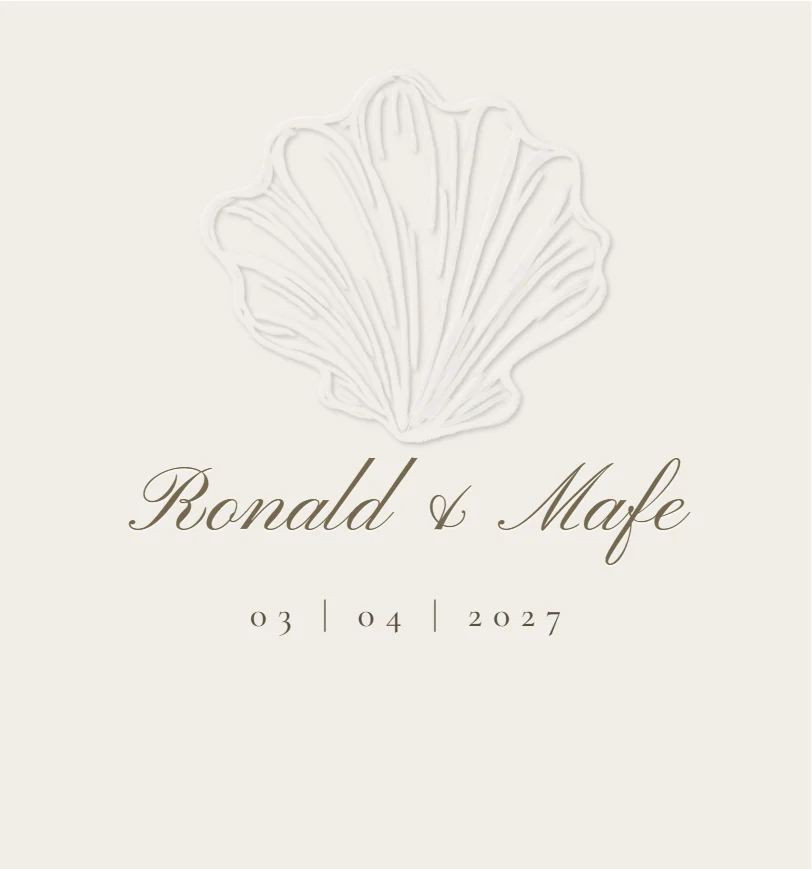
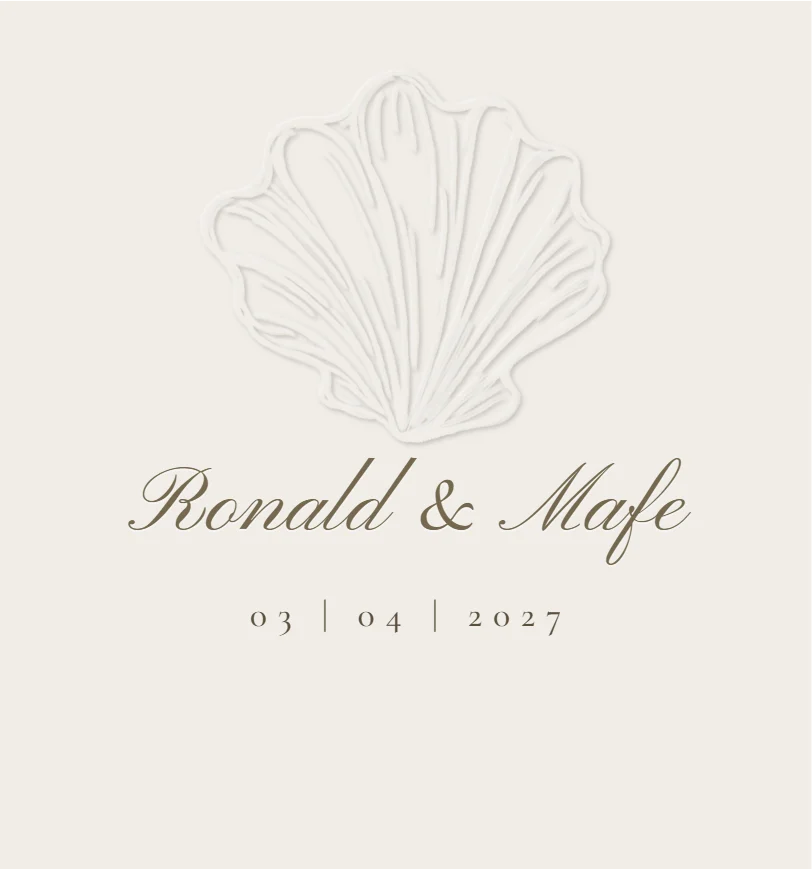
mejoras2

diff --git a/v2/index.html b/v2/index.html
@@ -18,7 +18,7 @@
 <meta name="theme-color" content="#F3ECE6">
 <link rel="preconnect" href="https://fonts.googleapis.com">
 <link rel="preconnect" href="https://fonts.gstatic.com" crossorigin="">
-<link href="https://fonts.googleapis.com/css2?family=Pinyon+Script&amp;family=Cormorant+Garamond:ital,wght@0,400;0,500;0,600;1,400&amp;family=Jost:wght@300;400;500&amp;display=swap" rel="stylesheet">
+<link href="https://fonts.googleapis.com/css2?family=Pinyon+Script&amp;family=Cormorant+Garamond:ital,wght@0,400;0,500;0,600;1,400&amp;family=Tangerine:wght@700&amp;family=Jost:wght@300;400;500&amp;display=swap" rel="stylesheet">
 <link rel="preload" as="image" href="../assets/sello.png">
 <link rel="preload" as="image" href="../assets/sobre-bolsillo.webp">
 <link rel="preload" as="image" href="../assets/sobre-solapa.webp">
@@ -33,6 +33,8 @@ a:hover{color:#5E5340}
 img{display:block;max-width:100%}
 @media (prefers-reduced-motion:reduce){html{scroll-behavior:auto}*{transition-property:opacity!important}.s-solapa-fuera,.s-solapa-dentro{transition:none!important}}
 
+/* «&» de los nombres: Tangerine en negrita, con el grosor de los trazos de la letra manuscrita */
+.amp{font-family:'Tangerine',cursive;font-weight:700;font-size:1.15em;line-height:0;padding:0 .08em}
 /* ---------- Sobre cuadrado (opción 8 de /sobres): piezas ya renderizadas en assets/sobre-*.webp ---------- */
 .sobre{--w:min(80vw,46vh,400px);position:relative;width:var(--w);aspect-ratio:1;will-change:transform}
 .sobre > *{position:absolute}
@@ -53,7 +55,7 @@ img{display:block;max-width:100%}
 <sc-if value="{{ showEnvelope }}" hint-placeholder-val="{{ true }}">
 <div data-screen-label="01 Sobre" onClick="{{ openEnvelope }}" role="button" tabindex="0" aria-label="{{ envLabel }}" style="position:fixed;inset:0;z-index:100;overflow:hidden;touch-action:none;cursor:pointer;background:#F3ECE6;display:flex;flex-direction:column;align-items:center;justify-content:center;gap:clamp(36px,7vh,64px);transition:opacity 1100ms ease-in-out 350ms;opacity:{{ envOpacity }};pointer-events:{{ envPointer }};">
   <div style="position:absolute;inset:0;background-image:url(../assets/patron-conchas-dorado.webp);background-size:420px;opacity:.3;pointer-events:none;"></div>
-  <div style="position:relative;font-family:'Pinyon Script',cursive;font-size:clamp(44px,12vw,60px);line-height:1.2;padding:0 .1em .2em;color:#796C51;transition:opacity 700ms ease;opacity:{{ textOpacity }};">Ronald &amp; Mafe</div>
+  <div style="position:relative;font-family:'Pinyon Script',cursive;font-size:clamp(44px,12vw,60px);line-height:1.2;padding:0 .1em .2em;color:#796C51;transition:opacity 700ms ease;opacity:{{ textOpacity }};">{{ c.nameA }} <span class="amp">&amp;</span> {{ c.nameB }}</div>
   <div style="position:relative;will-change:opacity,transform;transition:opacity 800ms ease-out,transform 1200ms cubic-bezier(.25,.1,.25,1);opacity:{{ compOp }};transform:{{ compT }};">
   <div class="sobre" style="transition:transform 2200ms cubic-bezier(.3,0,.15,1) 500ms;transform:{{ sobreT }};">
     <div class="s-fondo" style="z-index:1;"></div>
@@ -77,8 +79,8 @@ img{display:block;max-width:100%}
   <section data-screen-label="02 Portada" style="position:relative;background:#F3ECE6;padding:clamp(40px,8vh,72px) 24px 80px;text-align:center;">
     <svg viewBox="0 0 1440 80" preserveAspectRatio="none" aria-hidden="true" style="position:absolute;left:0;top:calc(-1 * clamp(32px,6vw,72px) + 1px);width:100%;height:clamp(32px,6vw,72px);display:block;"><path d="M0 40 C180 80 360 80 540 48 C720 16 900 0 1080 24 C1260 48 1350 64 1440 52 L1440 80 L0 80 Z" fill="#F3ECE6"></path></svg>
     <div style="max-width:520px;margin:0 auto;display:flex;flex-direction:column;align-items:center;gap:20px;">
-      <div data-hero-write="1" style="white-space:nowrap;font-family:'Pinyon Script',cursive;font-size:clamp(44px,13vw,70px);line-height:1.2;color:#5E5340;padding:0 .1em .22em;">{{ c.coupleNames }}</div>
-      <img data-hero="2" src="../assets/sello.png" alt="Sello R&amp;M" style="width:130px;height:auto;filter:drop-shadow(0 6px 8px rgba(50,42,28,.3));"></img>
+      <div data-hero-write="1" style="white-space:nowrap;font-family:'Pinyon Script',cursive;font-size:clamp(44px,13vw,70px);line-height:1.2;color:#5E5340;padding:0 .1em .22em;">{{ c.nameA }} <span class="amp">&amp;</span> {{ c.nameB }}</div>
+      <img data-hero="2" src="../assets/monograma-marron.webp" alt="Monograma R&amp;M" style="width:110px;height:auto;"></img>
       <div data-hero="3" style="display:flex;flex-direction:column;gap:12px;">
         <div style="font-weight:500;font-size:16px;letter-spacing:.34em;padding-left:.34em;color:#5E5340;">{{ c.dateDisplay }}</div>
         <div style="font-weight:500;font-size:12px;letter-spacing:.3em;padding-left:.3em;color:#796C51;text-wrap:balance;">{{ c.locationDisplay }}</div>
@@ -111,7 +113,6 @@ img{display:block;max-width:100%}
           <div style="display:flex;flex-direction:column;gap:8px;"><div style="font-family:'Cormorant Garamond',serif;font-weight:500;font-size:clamp(44px,13vw,68px);line-height:1;color:#3F3727;font-variant-numeric:tabular-nums;">{{ cd.m }}</div><div style="font-size:11px;letter-spacing:.26em;color:#3F3727;">MIN</div></div>
           <div style="display:flex;flex-direction:column;gap:8px;"><div style="font-family:'Cormorant Garamond',serif;font-weight:500;font-size:clamp(44px,13vw,68px);line-height:1;color:#3F3727;font-variant-numeric:tabular-nums;">{{ cd.s }}</div><div style="font-size:11px;letter-spacing:.26em;color:#3F3727;">SEG</div></div>
         </div>
-        <div style="font-family:'Jost',sans-serif;font-weight:300;font-size:16px;color:#3F3727;text-shadow:0 0 10px #F3ECE6,0 0 18px #F3ECE6;">{{ c.countdownCaption }}</div>
       </div>
     </section>
   FIN DISEÑO ALTERNATIVO -->
@@ -126,7 +127,6 @@ img{display:block;max-width:100%}
         <div style="display:flex;flex-direction:column;gap:8px;"><div style="font-family:'Cormorant Garamond',serif;font-weight:500;font-size:clamp(44px,13vw,68px);line-height:1;color:#5E5340;font-variant-numeric:tabular-nums;">{{ cd.m }}</div><div style="font-size:11px;letter-spacing:.26em;color:#5E5340;">MIN</div></div>
         <div style="display:flex;flex-direction:column;gap:8px;"><div style="font-family:'Cormorant Garamond',serif;font-weight:500;font-size:clamp(44px,13vw,68px);line-height:1;color:#5E5340;font-variant-numeric:tabular-nums;">{{ cd.s }}</div><div style="font-size:11px;letter-spacing:.26em;color:#5E5340;">SEG</div></div>
       </div>
-      <div style="font-family:'Jost',sans-serif;font-weight:300;font-size:16px;color:#5E5340;">{{ c.countdownCaption }}</div>
     </div>
   </section>
 
@@ -232,10 +232,12 @@ img{display:block;max-width:100%}
   <section data-screen-label="08 RSVP" style="position:relative;background:#F3ECE6;padding:88px 24px 80px;">
     <svg viewBox="0 0 1440 80" preserveAspectRatio="none" aria-hidden="true" style="position:absolute;left:0;top:calc(-1 * clamp(32px,6vw,72px) + 1px);width:100%;height:clamp(32px,6vw,72px);display:block;"><path d="M0 40 C180 80 360 80 540 48 C720 16 900 0 1080 24 C1260 48 1350 64 1440 52 L1440 80 L0 80 Z" fill="#F3ECE6"></path></svg>
     <div data-reveal="1" style="position:relative;max-width:400px;margin:0 auto;background:#F3ECE6;border:1px solid rgba(149,140,102,.55);outline:1px solid rgba(149,140,102,.25);outline-offset:-9px;border-radius:999px 999px 6px 6px;box-shadow:0 18px 38px -22px rgba(60,50,30,.45);padding:96px 26px 44px;text-align:center;display:flex;flex-direction:column;align-items:center;gap:14px;">
-      <img src="../assets/sello.png" alt="" loading="lazy" style="position:absolute;top:-30px;left:50%;width:84px;margin-left:-42px;transform:rotate(-6deg);filter:drop-shadow(0 5px 7px rgba(60,50,30,.3));"></img>
+      <img src="../assets/monograma-marron.webp" alt="" loading="lazy" style="position:absolute;top:30px;left:50%;width:58px;margin-left:-29px;"></img>
       <div style="font-size:11px;font-weight:500;letter-spacing:.4em;padding-left:.4em;color:#796C51;">RSVP</div>
       <h2 style="margin:0;font-family:'Cormorant Garamond',serif;font-weight:500;font-size:clamp(26px,7.4vw,32px);line-height:1.2;letter-spacing:.08em;color:#796C51;text-wrap:balance;">{{ c.rsvpTitle }}</h2>
       <p style="margin:0;font-family:'Jost',sans-serif;font-weight:300;font-size:15.5px;line-height:1.45;color:#5E5340;text-wrap:pretty;">{{ c.rsvpText }}</p>
+      <div style="width:36px;height:1px;background:#958C66;margin-top:2px;"></div>
+      <div style="font-size:11px;font-weight:500;letter-spacing:.24em;padding-left:.24em;line-height:1.6;color:#796C51;text-transform:uppercase;text-wrap:balance;">{{ c.adultsNote }}</div>
       <button type="button" onClick="{{ openForm }}" style="border:none;cursor:pointer;font-family:'Jost',sans-serif;margin-top:14px;display:flex;align-items:center;justify-content:center;width:100%;max-width:300px;min-height:58px;border-radius:999px;background:#9AAC94;color:#4A4130;font-size:12px;font-weight:500;letter-spacing:.26em;padding-left:.26em;box-shadow:0 10px 22px -10px rgba(100,120,92,.7);" style-hover="background:#879D80;color:#4A4130;">CONFIRMAR ASISTENCIA</button>
     </div>
   </section>
@@ -353,14 +355,14 @@ class Component extends DCLogic {
   // ================= CONFIGURACIÓN: todos los textos, fechas y links =================
   CONFIG = {
     coupleNames: 'Ronald & Mafe',
+    nameA: 'Ronald', nameB: 'Mafe', // los nombres de la portada; el «&» va aparte, con su propia letra
     dateDisplay: '03 | 04 | 2027',
     locationDisplay: 'ISLA DE MARGARITA, VENEZUELA',
     weddingDateISO: '2027-04-03T15:30:00-04:00', // hora de Venezuela (UTC-4)
-    countdownCaption: 'para decir “sí, acepto”',
     events: [
       { icon: 'concha', title: 'White Party', date: 'JUEVES 01 · ABRIL · 2027', time: '6:00 PM', place: 'Lugar por confirmar', link: '' },
       { icon: 'cruz', title: 'Ceremonia', date: 'SÁBADO 03 · ABRIL · 2027', time: '3:30 PM', place: 'Catedral Nuestra Señora de la Asunción', link: 'https://maps.app.goo.gl/VgX8rsmx8gKoJEUz7' },
-      { icon: 'sol', title: 'Celebración', date: 'SÁBADO 03 · ABRIL · 2027', time: '6:00 PM', place: 'Downtown Beach Margarita, Isla de Margarita, Venezuela', link: '' },
+      { icon: 'sol', title: 'Celebración', date: 'SÁBADO 03 · ABRIL · 2027', time: '6:00 PM', place: 'Downtown Beach Margarita, Isla de Margarita, Venezuela', link: 'https://www.google.com/maps/place/Downtown+Beach+Club/@10.9887336,-63.8039532,17z/data=!3m1!4b1!4m6!3m5!1s0x8c318fdecddf5167:0x99f0afd69eaea1fb!8m2!3d10.9887336!4d-63.8039532' },
     ],
     dresscode: 'Vestimenta formal',
     whitePartyNote: '', // ej. 'White Party del jueves: total white' — '' lo oculta
@@ -380,9 +382,10 @@ class Component extends DCLogic {
     ],
     rsvpTitle: 'POR FAVOR CONFIRMA TU ASISTENCIA',
     rsvpText: '¡Nos hace muy feliz que puedas acompañarnos!',
+    adultsNote: 'Celebración sólo para adultos',
     whatsappPhone: '584245414804', // WhatsApp de quien recibe las confirmaciones — solo números, con código de país
     whatsappMessage: 'Hola, confirmo mi asistencia a la boda de Ronald & Mafe.',
-    giftsText: 'El mayor regalo es contar con su presencia este día y poder celebrar juntos. Sin embargo, si deseas tener un detalle con nosotros, te dejaremos la información de nuestros datos.',
+    giftsText: 'El mayor regalo es contar con su presencia este día y poder celebrar juntos. Si deseas tener un detalle con nosotros, te dejaremos abajo dos opciones.',
     zelle: [
       { label: 'ZELLE · MAFE', value: 'mafeazcunes@gmail.com' },
       { label: 'ZELLE · RONALD', value: '[ZELLE_RONALD]' },
